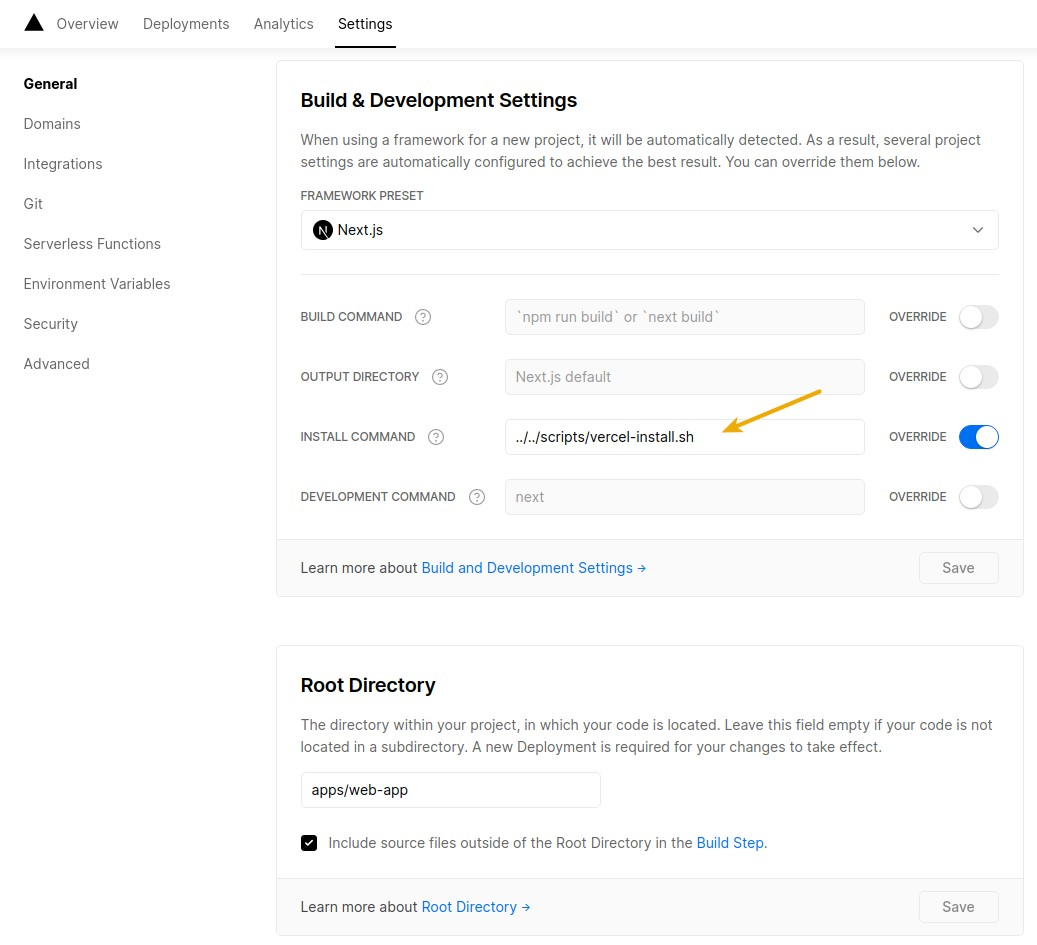
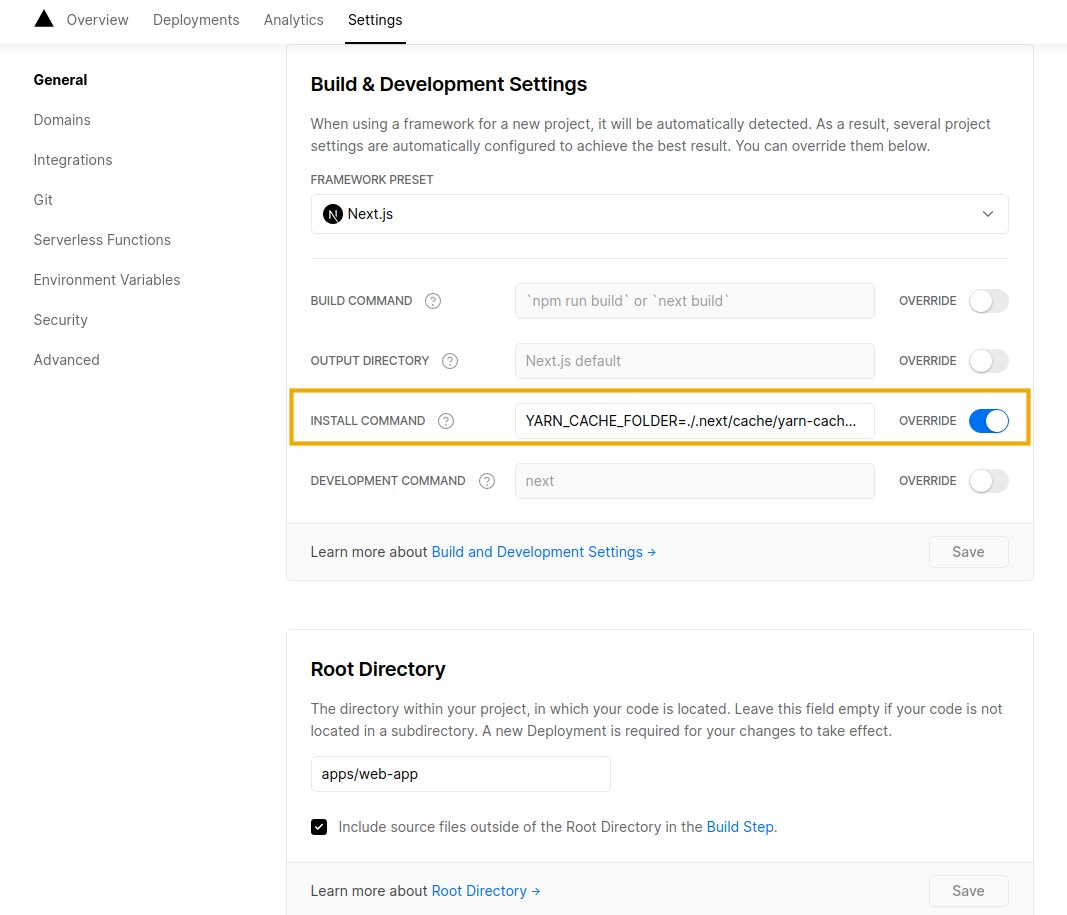
docs(vercel): workaround to speed up sandboxes with cache folder

diff --git a/docs/deploy/deploy-vercel.md b/docs/deploy/deploy-vercel.md
@@ -11,9 +11,7 @@ Vercel supports it natively, so there's pretty much nothing to do.
 2. Choose the name
    ![](./images/vercel-monorepo-naming.jpg)
 
-3. (Option) To speed up install step, it's necessary to use a workaround
-   and save YARN_CACHE_FOLDER into node_modules/.yarn/cache. This might change
-   in the future when vercel support yarn 2/3 new caching mechanism.
+3. (Option) To speed up install step and allow yarn 2 cache strategy till it's supported natively
+   by Vercel, use a workaround by overriding install step with `YARN_CACHE_FOLDER=.next/cache/yarn-cache yarn install`.
 
-   To enable the cache on vercel, just overrides the install with [srcipts/vercel-install.sh](../../scripts/vercel-install.sh).  
    ![](./images/vercel-monorepo-cache.jpg)
